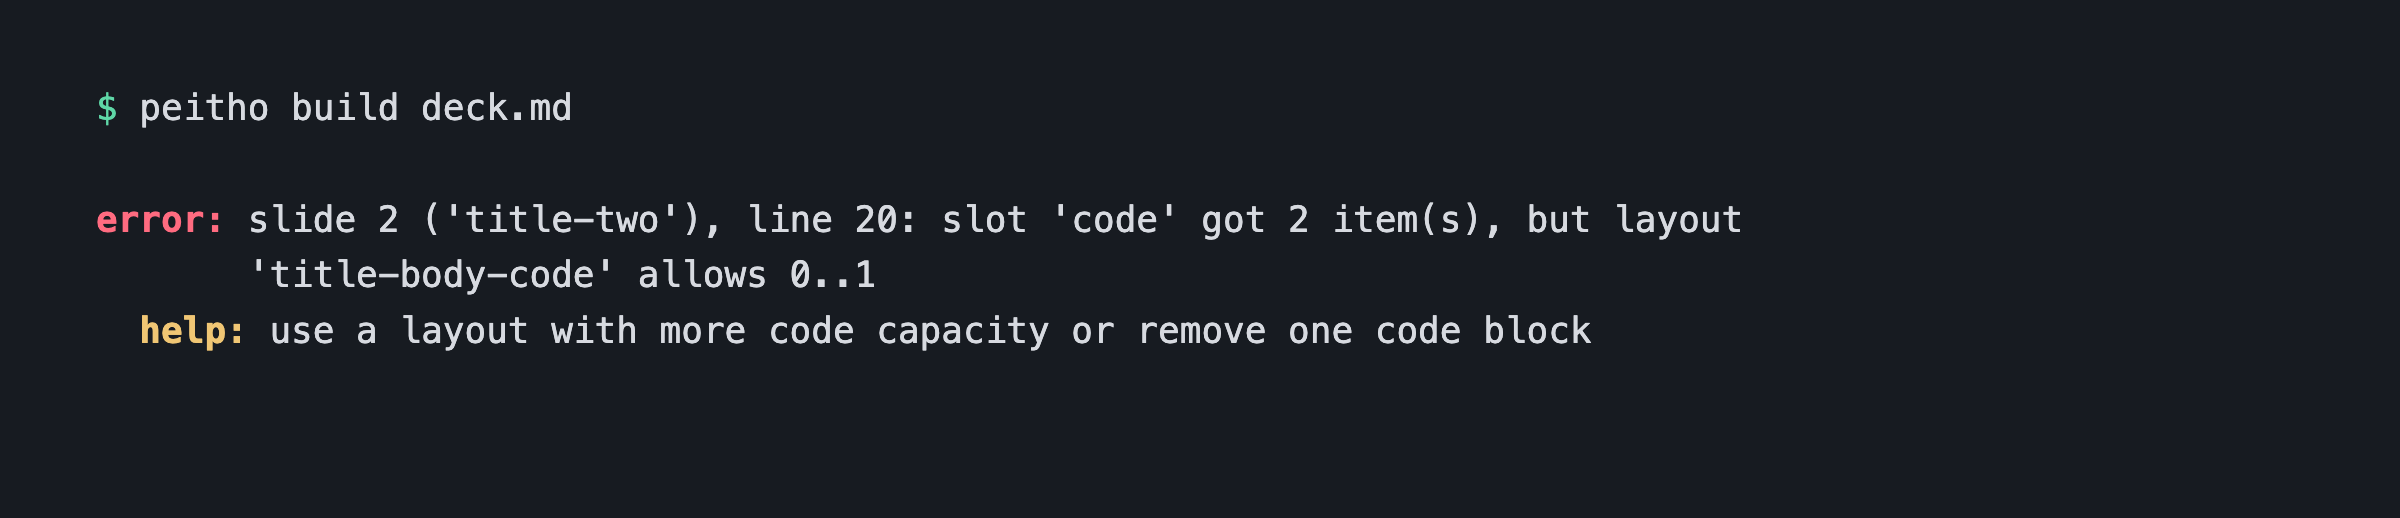
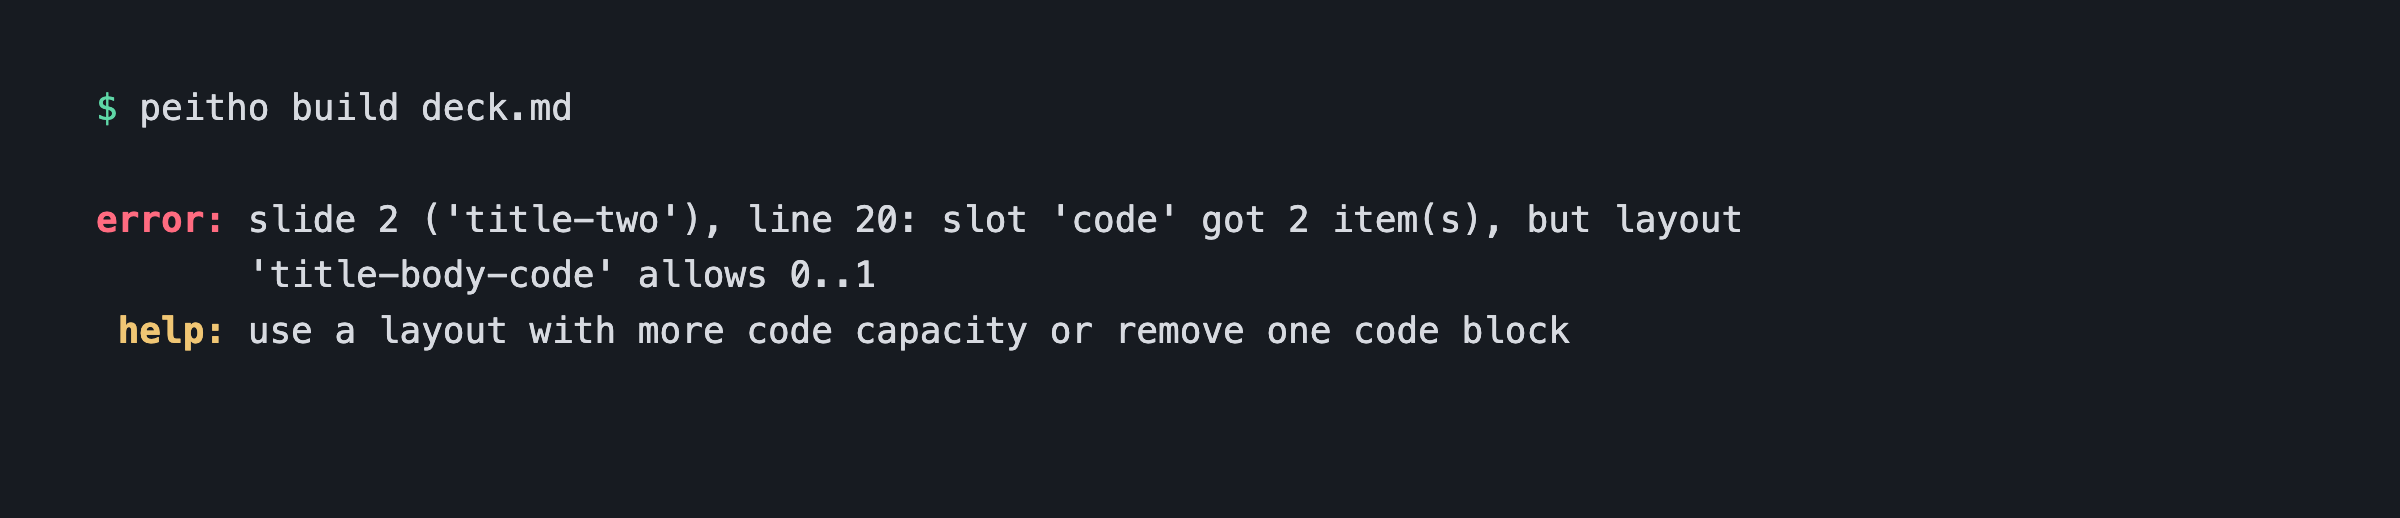
fix: right-align the help: label under error: and warning:
Author feedback on v1.22.0: `error:` at column 0 with a two-space
`  help: ` left the labels visibly misaligned. Right-align `help:`
under its block label so the colons line up and the bodies plus all
continuation lines share one start column — ` help: ` under `error: `
(both bodies at column 7), `   help: ` under `warning: ` in lint (both
at column 9). Doctor's glyph-prefixed check list keeps its own hanging
help indent — different structure, not part of this class.

Rendering output is now pinned with insta snapshots
(crates/peitho/src/snapshots/): renderer wrap/alignment/color/no-help/
non-tty/token-overflow cases plus the lint report, replacing the
hand-computed golden strings. The guide's build-error.png is
regenerated with the aligned output.

Changed region(s): [[0.0312, 0.6178, 0.6875, 0.6795]]

diff --git a/crates/peitho/src/diagnostics.rs b/crates/peitho/src/diagnostics.rs
@@ -6,20 +6,24 @@
 //! preview error page must use [`plain_diagnostic_text`] instead, because the
 //! terminal renderer can emit ANSI escapes.
 //!
-//! The output is cargo/rustc-shaped, matching lint's existing
-//! `warning:` / `  help:` house style: a red `error:` prefix, the message
-//! wrapped to the terminal width with a hanging indent, and a yellow `help:`
-//! block. There is deliberately no wrap gutter — miette's graphical handler
-//! hardcodes the severity color onto both the `×` marker and the gutter, which
-//! is the red-vertical-bar noise this renderer replaces (issue #414).
+//! The output is cargo/rustc-shaped, in the same family as lint's
+//! `warning:` / `help:` output: a red `error:` prefix, the message wrapped to
+//! the terminal width with a hanging indent, and a right-aligned yellow
+//! `help:` block whose body shares the message's start column. There is
+//! deliberately no wrap gutter — miette's graphical handler hardcodes the
+//! severity color onto both the `×` marker and the gutter, which is the
+//! red-vertical-bar noise this renderer replaces (issue #414).
 
 use std::fmt;
 use std::io::IsTerminal;
 
+// The `help:` label is right-aligned under `error:` so the colons line up and
+// both bodies start in the same column (author feedback 2026-08-06); the
+// shared 7-column indent also keeps continuation lines of both blocks aligned.
 const ERROR_PREFIX: &str = "error: ";
-const HELP_PREFIX: &str = "  help: ";
+const HELP_PREFIX: &str = " help: ";
 const ERROR_PREFIX_STYLED: &str = "\x1b[1;31merror:\x1b[0m ";
-const HELP_PREFIX_STYLED: &str = "  \x1b[1;33mhelp:\x1b[0m ";
+const HELP_PREFIX_STYLED: &str = " \x1b[1;33mhelp:\x1b[0m ";
 const FALLBACK_WIDTH: usize = 80;
 const MIN_WIDTH: usize = 40;
 
@@ -208,74 +212,86 @@ mod tests {
         assert!(deck_report(err).help().is_none());
     }
 
+    // Rendering output is pinned with insta snapshots (`cargo insta review` to
+    // accept intentional format changes); non-visual behavior stays in plain
+    // asserts below.
+
     #[test]
     fn renders_error_prefix_and_help_block() {
+        insta::assert_snapshot!(render_diagnostic_parts(
+            "deck.md:3: broken deck",
+            Some("fix the frontmatter"),
+            TerminalStyle::plain(80),
+        ));
+    }
+
+    #[test]
+    fn help_label_aligns_with_error_label() {
         let rendered = render_diagnostic_parts(
             "deck.md:3: broken deck",
             Some("fix the frontmatter"),
             TerminalStyle::plain(80),
         );
 
-        assert_eq!(
-            rendered,
-            "error: deck.md:3: broken deck\n  help: fix the frontmatter"
-        );
+        let text_columns: Vec<usize> = rendered
+            .lines()
+            .map(|line| line.find(": ").expect("label line") + 2)
+            .collect();
+        assert_eq!(text_columns, vec![7, 7], "actual: {rendered}");
     }
 
     #[test]
     fn wraps_with_hanging_indent_under_each_prefix() {
-        let rendered = render_diagnostic_parts(
+        insta::assert_snapshot!(render_diagnostic_parts(
             "deck.md:3: invalid deck frontmatter: unknown field `fontss`, expected one of `time`, `aspect_ratio`",
             Some("use only the supported deck frontmatter keys: time, aspect_ratio, resolution"),
             TerminalStyle::plain(60),
-        );
-
-        assert_eq!(
-            rendered,
-            "error: deck.md:3: invalid deck frontmatter: unknown field\n       \
-             `fontss`, expected one of `time`, `aspect_ratio`\n  \
-             help: use only the supported deck frontmatter keys: time,\n        \
-             aspect_ratio, resolution"
-        );
+        ));
     }
 
     #[test]
     fn preserves_embedded_newlines_aligned_under_the_message() {
-        let rendered = render_diagnostic_parts(
-            "slide 2 ('whoami'), line 16: no layout matches this slide\nbooks: unassigned content remains\ncode: no slot accepts image",
-            Some("adjust the slide content"),
+        insta::assert_snapshot!(render_diagnostic_parts(
+            "slide 2 ('whoami'), line 16: no layout matches this slide\nbooks: unassigned content remains for missing 'body' slot\ncode: no slot accepts image in layout 'code'\nprofile: slot 'photo' got 2 item(s), but layout 'profile' allows 1",
+            Some("adjust the slide content or pick a layout explicitly with <!-- {\"layout\":\"…\"} -->"),
             TerminalStyle::plain(80),
-        );
-
-        assert_eq!(
-            rendered,
-            "error: slide 2 ('whoami'), line 16: no layout matches this slide\n       \
-             books: unassigned content remains\n       \
-             code: no slot accepts image\n  \
-             help: adjust the slide content"
-        );
+        ));
     }
 
     #[test]
     fn renders_without_help_when_absent() {
-        let rendered = render_diagnostic_parts("broken", None, TerminalStyle::plain(80));
-
-        assert_eq!(rendered, "error: broken");
+        insta::assert_snapshot!(render_diagnostic_parts(
+            "broken",
+            None,
+            TerminalStyle::plain(80)
+        ));
     }
 
     #[test]
     fn colors_only_the_prefix_labels() {
-        let rendered = render_diagnostic_parts(
+        insta::assert_snapshot!(render_diagnostic_parts(
             "deck.md:3: broken deck",
             Some("fix the frontmatter"),
             TerminalStyle::colored(80),
-        );
+        ));
+    }
 
-        assert_eq!(
-            rendered,
-            "\x1b[1;31merror:\x1b[0m deck.md:3: broken deck\n  \
-             \x1b[1;33mhelp:\x1b[0m fix the frontmatter"
-        );
+    #[test]
+    fn non_tty_width_keeps_logical_lines_whole() {
+        insta::assert_snapshot!(render_diagnostic_parts(
+            "deck.md:3: invalid deck frontmatter: unknown field `fontss`, expected one of `time`, `aspect_ratio`, `resolution`, `breaks`, `page_numbers`, `pointer_color`, `lang`, `layouts`, `css`, `syntaxes`, `fonts`, `code_images`",
+            Some("use only the supported deck frontmatter keys: time, aspect_ratio, resolution, breaks, page_numbers, pointer_color, lang, layouts, css, syntaxes, fonts, code_images"),
+            TerminalStyle::plain(usize::MAX),
+        ));
+    }
+
+    #[test]
+    fn long_tokens_overflow_instead_of_breaking() {
+        insta::assert_snapshot!(render_diagnostic_parts(
+            "line 3: code_images 'embed' failed: failed to render https://x.com/gosukenator/status/2083825695709597710: Chrome not found",
+            Some("cache file: .peitho/embeds-cache/972af547d2f8499d017734fd84d4b6ba9f65228db5313b996ff1b7f07a167f38.png; delete the cache file to refresh"),
+            TerminalStyle::plain(60),
+        ));
     }
 
     #[test]
@@ -310,7 +326,7 @@ mod tests {
 
         assert_eq!(
             rendered,
-            "error: Chrome PDF export failed\n  help: workspace kept at /tmp/x"
+            "error: Chrome PDF export failed\n help: workspace kept at /tmp/x"
         );
     }
 }

diff --git a/crates/peitho/src/lint.rs b/crates/peitho/src/lint.rs
@@ -491,7 +491,7 @@ fn write_lint_report(
             warning.box_px
         )
         .into_diagnostic()?;
-        writeln!(stdout, "  help: {OVERFLOW_HELP}").into_diagnostic()?;
+        writeln!(stdout, "   help: {OVERFLOW_HELP}").into_diagnostic()?;
     }
     for warning in &slot_overflow_warnings {
         let target = match &warning.slot {
@@ -510,7 +510,7 @@ fn write_lint_report(
         let help = warning
             .overflow_value
             .map_or(OVERFLOW_HELP, OverflowValue::help);
-        writeln!(stdout, "  help: {help}").into_diagnostic()?;
+        writeln!(stdout, "   help: {help}").into_diagnostic()?;
     }
     for warning in &font_size_warnings {
         writeln!(
@@ -521,7 +521,7 @@ fn write_lint_report(
             warning.sample
         )
         .into_diagnostic()?;
-        writeln!(stdout, "  help: {FONT_SIZE_HELP}").into_diagnostic()?;
+        writeln!(stdout, "   help: {FONT_SIZE_HELP}").into_diagnostic()?;
     }
 
     let warning_count =
@@ -1041,7 +1041,7 @@ mod tests {
             output.contains("warning: slide 11 content overflows a container vertically by 14px")
         );
         assert_eq!(
-            output.matches(&format!("  help: {OVERFLOW_HELP}")).count(),
+            output.matches(&format!("   help: {OVERFLOW_HELP}")).count(),
             2
         );
         assert!(output.contains("checked 2 slide(s): 2 warning(s)"));
@@ -1074,12 +1074,31 @@ mod tests {
         let output = String::from_utf8(stdout).unwrap();
         assert_eq!(
             output
-                .matches(&format!("  help: {SCROLLABLE_OVERFLOW_HELP}"))
+                .matches(&format!("   help: {SCROLLABLE_OVERFLOW_HELP}"))
                 .count(),
             2
         );
-        assert!(!output.contains(&format!("  help: {OVERFLOW_HELP}")));
+        assert!(!output.contains(&format!("   help: {OVERFLOW_HELP}")));
         assert!(output.contains("checked 1 slide(s): 2 warning(s)"));
+    }
+
+    #[test]
+    fn lint_report_output_snapshot() {
+        let measurements = vec![SlideMeasurement {
+            slide: 3,
+            content_width: 900.0,
+            content_height: 642.4,
+            box_width: 900.0,
+            box_height: 600.2,
+            min_font_size_px: Some(24.0),
+            min_font_sample: Some("excerpt…".to_owned()),
+            slot_overflows: Vec::new(),
+        }];
+        let mut stdout = Vec::new();
+
+        write_lint_report(&measurements, &mut stdout).unwrap();
+
+        insta::assert_snapshot!(String::from_utf8(stdout).unwrap());
     }
 
     #[test]
@@ -1104,13 +1123,13 @@ mod tests {
             "warning: slide 3 content overflows the slide box vertically by 42px (content 642px, box 600px)"
         ));
         assert!(
-            output.contains("  help: shrink or split the slide content, or adjust the layout CSS")
+            output.contains("   help: shrink or split the slide content, or adjust the layout CSS")
         );
         assert!(output.contains(
             "warning: slide 3 has text at 18pt, below the recommended 24pt: \"excerpt…\""
         ));
         assert!(output.contains(
-            "  help: raise the font size in the layout CSS, or move content to another slide instead of shrinking it"
+            "   help: raise the font size in the layout CSS, or move content to another slide instead of shrinking it"
         ));
         assert!(output.contains("checked 1 slide(s): 2 warning(s)"));
         assert_eq!(format_rounded_font_size_pt(17.3), "17.3pt");

diff --git a/docs/plans/2026-08-06-terminal-error-rendering.md b/docs/plans/2026-08-06-terminal-error-rendering.md
@@ -133,6 +133,19 @@ that grep stderr for full cache filenames and hyphenated selectors.)
    screenshotted with headless Chrome at 2x, byte-matching the real output
    text and prefix styling).
 
+## Amendment (2026-08-06, post-v1.22.0)
+
+Author feedback after using v1.22.0: `error:` at column 0 with `  help: `
+indented two spaces left the two labels visibly misaligned. The `help:` label
+is now right-aligned under `error:` (` help: `, one leading space) so the
+colons line up and both bodies plus all continuation lines share the same
+7-column start. `peitho lint` gets the matching treatment (`warning: ` /
+`   help: `, both bodies at column 9) — same visual class. Doctor's
+`      help:` lines are untouched: they hang under a glyph-prefixed check list,
+a different structure. Rendering output is pinned with insta snapshots
+(`crates/peitho/src/snapshots/`, `cargo insta review` to accept intentional
+format changes), and the guide's build-error.png was regenerated again.
+
 ## Tests
 
 - Renderer unit tests (no-color, fixed width): headline wrapping with hanging
